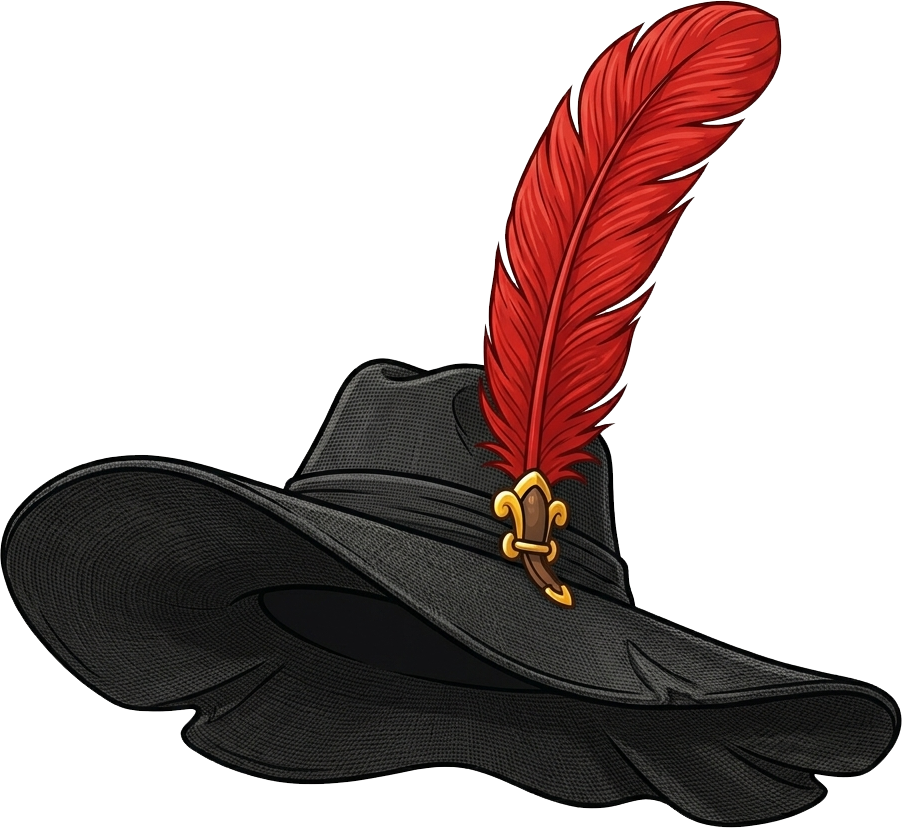
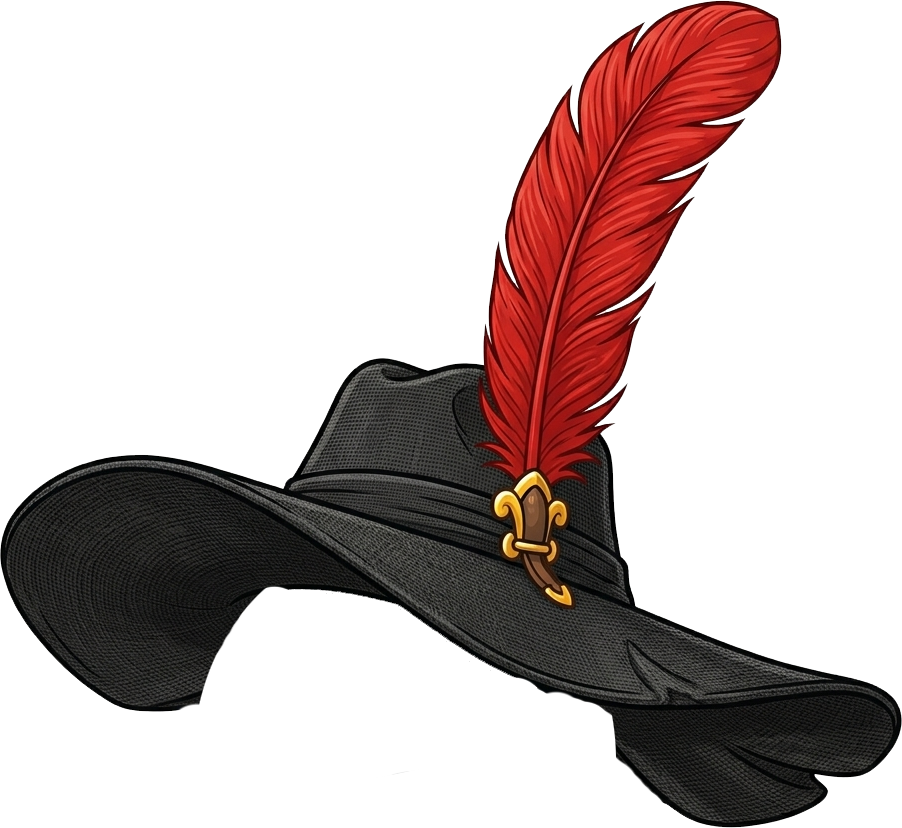
style(treasure-divide/gunner): wire floppy hat + cannonball + refresh art
Gunner theme accessory tuning:

- Floppy hat (theme 6, accessory 0)
  - kThemeAccessoryFaceWidthScale[6][0] = 2.101 — wider than the
    lookout bandana (1.541) because the floppy crown extends further
    past the head than a bandana wrap.
  - kThemeAccessoryOffsetMultipliers[6][0] = Offset(0.06, -0.15) —
    right 6%, up 15% of its own size to land the visible crown on
    the forehead (the source art has tall negative space below the
    brim).
  - Refreshed floppy_hat.png art.

- Cannonball (theme 6, accessory 1)
  - Anchor changed from bottomRightCorner to a new circleFiveOClock
    enum value (0.75, 0.933) — perched on the inscribed avatar
    circle at the 5 o'clock mark.
  - kThemeAccessorySizeMultipliers[6][1] = 1.30 — 30% larger than
    the corner-anchor base so the iron ball reads as a heavy
    projectile at the circle's edge.
  - kThemeAccessoryOffsetMultipliers[6][1] = Offset(0, -0.30) —
    up 30% of its own size so the ball sits inset from the lower-
    right curve rather than dangling off it.

circleFiveOClock follows the same pattern as the existing
circleFourOClock (frame-relative, no landmark coupling) — added to
_kCornerAnchors and the exhaustive switch in resolveAnchorPosition.

Changed region(s): [[0.1863, 0.6944, 0.745, 0.9964]]

diff --git a/dart_games/lib/widgets/treasure_divide/pirate_avatar_widget.dart b/dart_games/lib/widgets/treasure_divide/pirate_avatar_widget.dart
@@ -35,6 +35,12 @@ enum ThemeAccessoryAnchor {
   // for sprites that should perch on the lower-right edge of the
   // avatar circle (e.g. bosun crab).
   circleFourOClock,
+  // 5 o'clock position on the inscribed circle — (0.5 + 0.5·sin150°,
+  // 0.5 − 0.5·cos150°) ≈ (0.75, 0.933). Lower-right of the circle,
+  // closer to 6 o'clock than the 4 o'clock anchor. Used for sprites
+  // that should sit near the bottom-right curve of the avatar (e.g.
+  // gunner cannonball).
+  circleFiveOClock,
 }
 
 // ─── Heuristic fallback positions (normalized 0..1) ─────────────────────────
@@ -56,6 +62,9 @@ const Map<ThemeAccessoryAnchor, Offset> _kHeuristicPositions = {
   // (0.5 + 0.5·sin120°, 0.5 − 0.5·cos120°) — point on the inscribed
   // circle at the 4 o'clock mark.
   ThemeAccessoryAnchor.circleFourOClock: Offset(0.933, 0.75),
+  // (0.5 + 0.5·sin150°, 0.5 − 0.5·cos150°) — point on the inscribed
+  // circle at the 5 o'clock mark.
+  ThemeAccessoryAnchor.circleFiveOClock: Offset(0.75, 0.933),
 };
 
 // ─── Per-theme accessory anchor map ─────────────────────────────────────────
@@ -80,7 +89,9 @@ const Map<ThemeAccessoryAnchor, Offset> _kHeuristicPositions = {
 ///                 raised to the eye)
 /// - 5 Cook:       chef_hat=headTop, neckerchief=chinBottom (under jaw),
 ///                 spoon=bottomLeftCorner (peeking from lower-left)
-/// - 6 Gunner:     floppy_hat=headTop, cannonball=bottomRightCorner
+/// - 6 Gunner:     floppy_hat=headTop, cannonball=circleFiveOClock (centered
+///                 on the lower-right curve of the avatar circle, between the
+///                 4 o'clock and 6 o'clock marks)
 /// - 7 Cabin Boy:  tiny_cap=headTop, seahorse=bottomLeftCorner (spec says
 ///                 lower-right but bottomLeftCorner avoids collision with
 ///                 freckles centered on noseTip), freckles=noseTip (between
@@ -116,7 +127,7 @@ const Map<int, List<ThemeAccessoryAnchor>> kThemeAccessoryAnchors = {
   ],
   6: [
     ThemeAccessoryAnchor.headTop,
-    ThemeAccessoryAnchor.bottomRightCorner,
+    ThemeAccessoryAnchor.circleFiveOClock,
   ],
   7: [
     ThemeAccessoryAnchor.headTop,
@@ -137,6 +148,7 @@ const _kCornerAnchors = {
   ThemeAccessoryAnchor.bottomLeftCorner,
   ThemeAccessoryAnchor.bottomRightCorner,
   ThemeAccessoryAnchor.circleFourOClock,
+  ThemeAccessoryAnchor.circleFiveOClock,
 };
 
 // ─── Per-accessory size overrides ────────────────────────────────────────────
@@ -166,6 +178,11 @@ const Map<int, Map<int, double>> kThemeAccessorySizeMultipliers = {
   //   telescope (1) — 1.375× the face-anchored base (0.35 × avatarSize)
   //                   for a longer, more visible scope held to the eye.
   4: {1: 1.375},
+  // Gunner (theme 6):
+  //   cannonball (1) — 1.30× the corner-anchor base (0.30 × avatarSize),
+  //                    so the iron ball perched at the 5 o'clock mark
+  //                    reads as a clear, heavy projectile.
+  6: {1: 1.30},
 };
 
 /// Per-(theme, accessory) position nudge, in units of the accessory's
@@ -218,6 +235,18 @@ const Map<int, Map<int, Offset>> kThemeAccessoryOffsetMultipliers = {
   4: {
     0: Offset(-0.13, 0.25),
     1: Offset(0.43, -0.4),
+  },
+  // Gunner (theme 6):
+  //   floppy_hat (0) — right 6%, up 15% of its own size — the floppy
+  //                    hat art has tall negative space below the brim,
+  //                    so the box needs to slide up so the visible
+  //                    crown lands on the forehead.
+  //   cannonball (1) — up 30% of its own size from the circleFiveOClock
+  //                    anchor so the ball sits inset from the lower-right
+  //                    curve of the circle rather than dangling off it.
+  6: {
+    0: Offset(0.06, -0.15),
+    1: Offset(0, -0.30),
   },
 };
 
@@ -275,6 +304,11 @@ const Map<int, Map<int, double>> kThemeAccessoryFaceWidthScale = {
   //                 reads better with a touch more overhang on
   //                 each side.
   4: {0: 1.541},
+  // Gunner (theme 6):
+  //   floppy_hat (0) — 2.101× face-width — wider than the lookout
+  //                    bandana since the floppy crown extends further
+  //                    past the head than a bandana wrap.
+  6: {0: 2.101},
 };
 
 // ─── Anchor position resolver ────────────────────────────────────────────────
@@ -386,6 +420,7 @@ Offset resolveAnchorPosition(
       case ThemeAccessoryAnchor.bottomLeftCorner:
       case ThemeAccessoryAnchor.bottomRightCorner:
       case ThemeAccessoryAnchor.circleFourOClock:
+      case ThemeAccessoryAnchor.circleFiveOClock:
         return _kHeuristicPositions[anchor]!;
     }
   } catch (_) {
